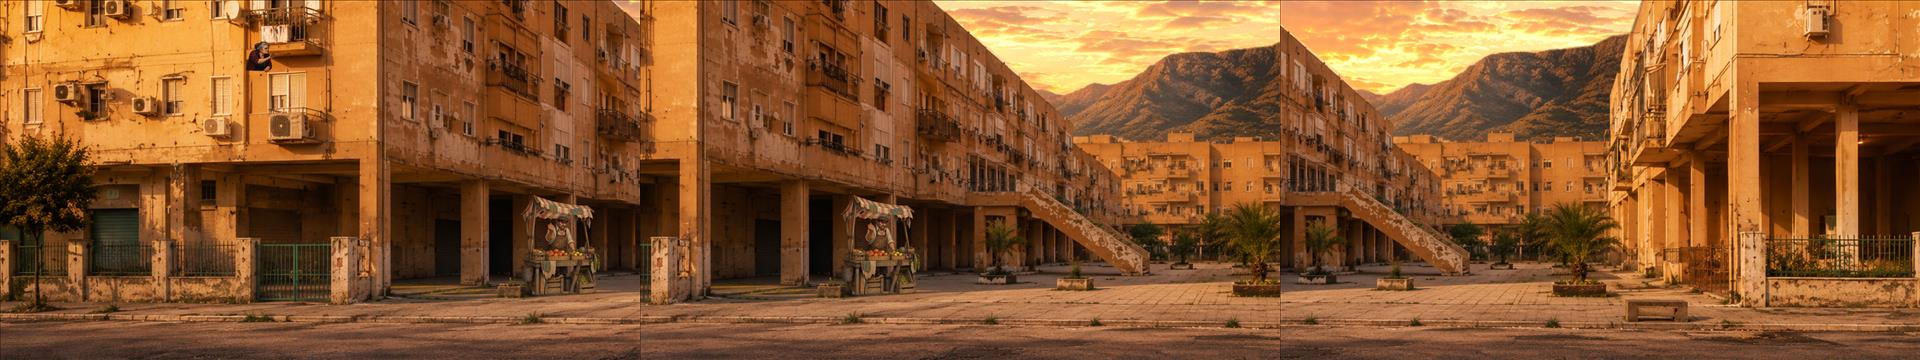
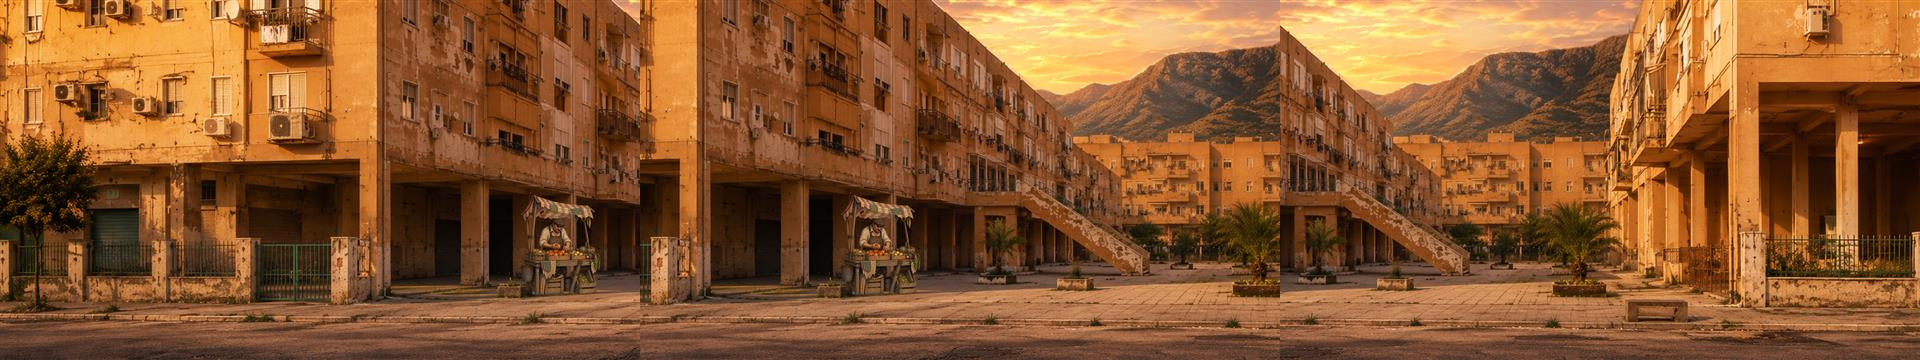
fix: require authored sockets for ambient residents

diff --git a/src/game/stage/StageAmbientLayer.ts b/src/game/stage/StageAmbientLayer.ts
@@ -1,13 +1,6 @@
 import { Container, Graphics, Sprite, type Texture } from 'pixi.js';
-import type { AmbientActorData, BirdFlockAmbientActorData, SpriteLoopAmbientActorData, Vec2 } from '../types';
-import { birdPoint, stableUnit } from './ambientMotion';
+import type { AmbientActorData, SpriteLoopAmbientActorData, Vec2 } from '../types';
 import { frameAtTime } from './ambientAssets';
-
-interface BirdInstance {
-  root: Container;
-  seed: number;
-  spec: BirdFlockAmbientActorData;
-}
 
 interface SpriteLoopInstance {
   root: Container;
@@ -23,48 +16,22 @@ function seedFromId(id: string, index: number): number {
   return (seed >>> 0) / 65536;
 }
 
-function birdGraphic(color: number, scale: number): Graphics {
-  return new Graphics()
-    .moveTo(-17 * scale, 3 * scale)
-    .quadraticCurveTo(-11 * scale, -7 * scale, -2 * scale, -1 * scale)
-    .lineTo(0, 1.5 * scale)
-    .lineTo(2 * scale, -1 * scale)
-    .quadraticCurveTo(11 * scale, -7 * scale, 17 * scale, 3 * scale)
-    .quadraticCurveTo(10 * scale, 0, 2 * scale, 3 * scale)
-    .lineTo(-2 * scale, 3 * scale)
-    .quadraticCurveTo(-10 * scale, 0, -17 * scale, 3 * scale)
-    .closePath()
-    .fill({ color, alpha: 0.94 })
-    .stroke({ color: 0x45423d, width: Math.max(0.9, 1.15 * scale), alpha: 0.82 })
-    .ellipse(0, 2.2 * scale, 4.2 * scale, 1.8 * scale)
-    .fill({ color: 0x5b5751, alpha: 0.9 });
+function stableUnit(seed: number): number {
+  const value = Math.sin(seed * 12.9898 + 78.233) * 43758.5453;
+  return value - Math.floor(value);
 }
 
 export class StageAmbientLayer {
   readonly root = new Container();
-  private birds: BirdInstance[] = [];
   private spriteLoops: SpriteLoopInstance[] = [];
   private elapsed = 0;
 
   configure(specs: AmbientActorData[], textureMap: ReadonlyMap<string, Texture> = new Map()): void {
     this.root.removeChildren().forEach((child) => child.destroy({ children: true }));
-    this.birds = [];
     this.spriteLoops = [];
     this.elapsed = 0;
     for (const spec of specs) {
       if (spec.enabled === false) continue;
-      if (spec.kind === 'bird_flock') {
-        for (let index = 0; index < spec.count; index += 1) {
-          const seed = seedFromId(spec.id, index);
-          const scale = (spec.scale ?? 1) * (0.72 + stableUnit(seed + 11) * 0.48);
-          const root = new Container();
-          root.addChild(birdGraphic(spec.color ?? 0x28231f, scale));
-          root.alpha = 0.82 + stableUnit(seed + 19) * 0.14;
-          this.root.addChild(root);
-          this.birds.push({ root, seed, spec });
-        }
-        continue;
-      }
       const textures = spec.frames.map((path) => textureMap.get(path));
       if (textures.some((texture) => !texture)) throw new Error(`${spec.id}: frame ambientale non caricato`);
       const sprite = new Sprite(textures[0]!);
@@ -97,15 +64,6 @@ export class StageAmbientLayer {
 
   update(dt: number, cameraX: number, shake: Vec2): void {
     this.elapsed += Math.max(0, dt);
-    for (const bird of this.birds) {
-      const point = birdPoint(this.elapsed, bird.seed, bird.spec.bounds, bird.spec.speed);
-      bird.root.position.set(
-        point.x - cameraX * bird.spec.parallax + shake.x * bird.spec.parallax,
-        point.y + shake.y * bird.spec.parallax,
-      );
-      bird.root.scale.y = 0.58 + Math.abs(point.flap) * 0.62;
-      bird.root.rotation = Math.sin(this.elapsed * 0.65 + bird.seed) * 0.035;
-    }
     for (const loop of this.spriteLoops) {
       const frameIndex = frameAtTime(loop.spec.frame_durations, this.elapsed + loop.phase);
       loop.sprite.texture = loop.textures[frameIndex] ?? loop.textures[0]!;
@@ -118,7 +76,6 @@ export class StageAmbientLayer {
 
   destroy(): void {
     this.root.destroy({ children: true });
-    this.birds = [];
     this.spriteLoops = [];
   }
 }

diff --git a/tests/stage-ambient.test.ts b/tests/stage-ambient.test.ts
@@ -27,11 +27,11 @@ test('Stage 1 no longer renders procedural bird flocks', () => {
   }
 });
 
-test('M01 has valid balcony and vendor loops outside the combat lane', () => {
+test('M01 keeps only the approved vendor active until a balcony socket exists', () => {
   const m01 = stage.modules.find((module) => module.id === 'M01');
   assert.ok(m01);
   const loops = (m01.ambient ?? []).filter((actor): actor is SpriteLoopSpec => actor.kind === 'sprite_loop');
-  assert.deepEqual(loops.map((loop) => loop.id), ['m01_signora_balcone', 'm01_venditore_frutta']);
+  assert.deepEqual(loops.map((loop) => loop.id), ['m01_venditore_frutta']);
   for (const loop of loops) {
     assert.equal(loop.frames.length, 4);
     assert.equal(loop.frame_durations.length, loop.frames.length);
@@ -39,12 +39,8 @@ test('M01 has valid balcony and vendor loops outside the combat lane', () => {
     assert.ok(loop.size[0] > 0 && loop.size[1] > 0);
     for (const frame of loop.frames) assert.ok(fs.existsSync(`public/${frame}`), `${loop.id}: missing ${frame}`);
   }
-  assert.equal(collectAmbientAssets(m01).length, 8);
-  const balcony = loops[0]!;
-  const vendor = loops[1]!;
-  assert.equal(balcony.motion_window, undefined, 'person-only balcony actor must not add an architectural shell');
-  assert.deepEqual(balcony.position, [520, 145], 'woman must occupy the existing authored balcony');
-  assert.ok(balcony.size[1] >= 0.18 * 290 && balcony.size[1] <= 0.28 * 290, 'balcony bust must match the distant facade scale');
+  assert.equal(collectAmbientAssets(m01).length, 4);
+  const vendor = loops[0]!;
   assert.ok(vendor.size[1] >= 0.65 * 290 && vendor.size[1] <= 0.75 * 290, 'vendor must match the rear sidewalk scale');
 });
 

diff --git a/src/game/types.ts b/src/game/types.ts
@@ -141,21 +141,6 @@ export interface BackgroundLayerData {
   reveal_polygons?: Array<Array<[number, number]>>;
 }
 
-export interface BirdFlockAmbientActorData {
-  id: string;
-  kind: 'bird_flock';
-  enabled?: boolean;
-  /** World-space area in which the flock loops: [x, y, width, height]. */
-  bounds: [number, number, number, number];
-  count: number;
-  speed: number;
-  /** Camera response: 0 is screen-fixed, 1 follows the gameplay plane. */
-  parallax: number;
-  color?: number;
-  scale?: number;
-  interactive?: false;
-}
-
 export interface SpriteLoopAmbientActorData {
   id: string;
   kind: 'sprite_loop';
@@ -175,7 +160,7 @@ export interface SpriteLoopAmbientActorData {
   interactive?: false;
 }
 
-export type AmbientActorData = BirdFlockAmbientActorData | SpriteLoopAmbientActorData;
+export type AmbientActorData = SpriteLoopAmbientActorData;
 
 export interface ModuleData {
   id: string;

diff --git a/docs/PRODUCTION_PIPELINE_V1.md b/docs/PRODUCTION_PIPELINE_V1.md
@@ -61,7 +61,7 @@ Il pilot M02 e descritto da `content-src/stages/stage1_zen/modules/M02.module.js
 
 La versione artistica M02 v1 approvata si trova in `art_source/stages/stage1_zen/M02/final_v1/`. E ricostruita deterministicamente dagli asset esistenti: skyline FAR color-matched, MAIN con finestra cielo alpha morbida e FOREGROUND trasparente/disattivato. Il manifest contiene gli SHA-256 di master, runtime e preview; `content:check` rileva file mancanti o modificati. M02 usa ora questi layer nel runtime a 2560x720, con camera 0-1280 e walk band 515-705. La fascia segue il piano pavimentato visibile e restituisce la profondità necessaria al combattimento; strutture verticali e futuri elementi ambientali devono restare fuori dal poligono dei piedi o dichiarare collisioni dedicate.
 
-Gli attori ambientali animati usano `kind: sprite_loop`. Ogni definizione dichiara frame, posizione, dimensione, pivot, durata di ciascun frame e parallasse. Il runtime precarica i PNG insieme allo stage, li anima su un piano dietro al combattimento e li rilascia al cambio di modulo. Il pilot M01 contiene `m01_signora_balcone` e `m01_venditore_frutta`; fonti, output e SHA-256 correnti sono registrati in `art_source/ambient/stage1_zen/M01/v3/M01_AMBIENT_V3_MANIFEST.json`. La signora e composta come figura isolata dentro il balcone gia presente nel fondale, cosi scala e allineamento architettonico dipendono dallo stage approvato. Gli stormi procedurali non sono configurati. La direzione richiede degrado credibile da borgata popolare ed espressioni guardinghe.
+Gli attori ambientali animati usano `kind: sprite_loop`. Ogni definizione dichiara frame, posizione, dimensione, pivot, durata di ciascun frame e parallasse. Il runtime precarica i PNG insieme allo stage, li anima su un piano dietro al combattimento e li rilascia al cambio di modulo. Nel pilot M01 e attivo soltanto `m01_venditore_frutta`. `m01_signora_balcone` resta conservata come sorgente, ma tornera nel runtime dopo la costruzione dell'alloggio descritto in `content-src/stages/stage1_zen/modules/M01_AMBIENT_SOCKETS.md`. Lo stage deve fornire vano MAIN e ringhiera FOREGROUND prima del personaggio. Gli stormi e il relativo renderer sono stati eliminati. Fonti, output e SHA-256 correnti sono registrati in `art_source/ambient/stage1_zen/M01/v3/M01_AMBIENT_V3_MANIFEST.json`.
 
 ## Definition of done
 

diff --git a/docs/STAGE1_DECEMBER_2026_PLAN.md b/docs/STAGE1_DECEMBER_2026_PLAN.md
@@ -45,8 +45,8 @@ Gate finale: lo Stage 1 e completabile, presentabile e reinstallabile su una sec
 ## Stato al 9 settembre
 
 - M01-M04: fasce WALK sottoposte ad audit visivo e corrette.
-- M01-M04: primo attore ambientale procedurale, stormi di uccelli, integrato e configurato per modulo.
-- M01: signora ancorata a un modulo architettonico completo e venditore con bancarella deteriorata integrati come cicli sprite non interattivi. Direzione visiva corretta verso una borgata più sporca, dura e vissuta.
-- M01: la signora usa il balcone già disegnato nello sfondo, senza aggiungere una seconda architettura; scala del busto bloccata al 18-28% dell'attore canonico. Gli stormi procedurali sono stati rimossi dopo la prova visiva.
+- M01-M04: la prova degli stormi procedurali e stata scartata; configurazione, tipi e renderer rimossi.
+- M01: venditore con bancarella deteriorata integrato come ciclo sprite non interattivo. La precedente prova della signora e stata respinta per mancanza di un alloggio architettonico nello stage.
+- M01: venditore approvato e attivo. La signora e stata rimossa dal runtime finche il fondale non possiede un alloggio ambientale con vano, anchor e ringhiera di occlusione separata. Gli stormi e il relativo renderer sono stati eliminati.
 - Sistema di audit: overlay dei layer reali, poligono WALK e sagome in scala disponibile in `tools/audit-stage-walk-bands.py`.
 - Prossimo incremento: prova visiva completa di M01 e, dopo il gate, riuso del contratto `sprite_loop` per bambini che giocano nel campetto M03.

diff --git a/content-src/stages/stage1_zen/modules/M01_AMBIENT_SOCKETS.md b/content-src/stages/stage1_zen/modules/M01_AMBIENT_SOCKETS.md
@@ -1,0 +1,23 @@
+# M01 - alloggi per attori ambientali
+
+## Regola di integrazione
+
+Un personaggio di facciata entra nel runtime soltanto dopo che lo stage espone un alloggio completo. L'alloggio deve avere un vano leggibile nel layer MAIN, un anchor misurato nel mondo e un elemento di occlusione nel layer FOREGROUND. La figura animata resta fra MAIN e FOREGROUND, cosi ringhiera e davanzale rimangono davanti al corpo in ogni frame.
+
+## BALCONY_RESIDENT_01
+
+- Stato: `art_required`.
+- Destinazione: balcone reale della facciata sinistra, scelto prima di posizionare la figura.
+- MAIN: apertura interna vuota e coerente con la luce della stanza.
+- FOREGROUND: ringhiera e bordo del balcone su alpha separato.
+- Contratto: il pivot coincide con il bordo interno della ringhiera.
+- Scala: derivata dall'altezza del vano, senza correzioni arbitrarie nel runtime.
+- Prova obbligatoria: dettaglio ravvicinato dei quattro frame e tre camere M01.
+- Attore previsto: `m01_signora_balcone`, attualmente disattivato.
+
+## STREET_VENDOR_01
+
+- Stato: `approved`.
+- Attore: `m01_venditore_frutta`.
+- Anchor runtime: `[1120, 592]`.
+- Non richiede occlusione architettonica.
